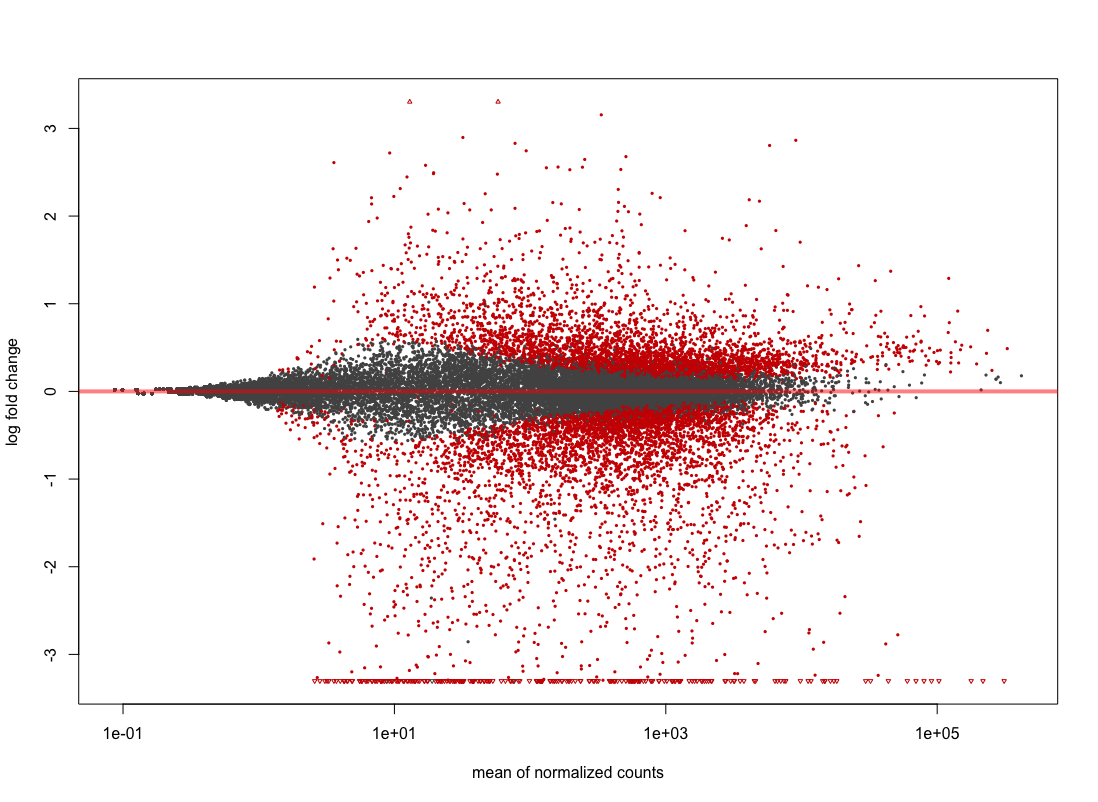
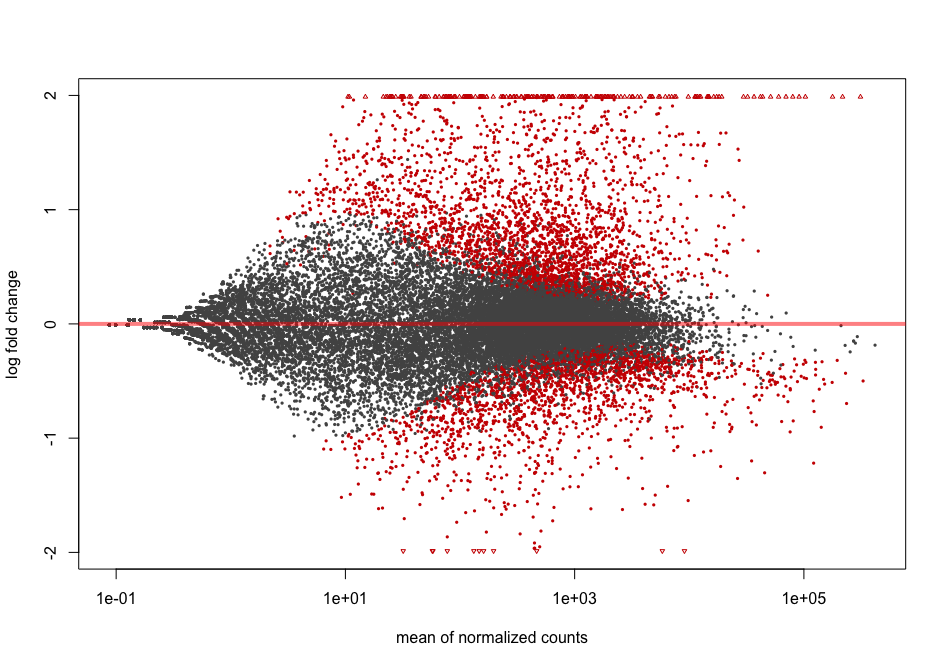
fix big error in ordering of the counts columns that had repercussions a bit everywhere

Changed region(s): [[0.0, 0.09, 0.981, 0.9895], [0.6131, 0.7496, 0.6438, 0.7796], [0.3066, 0.6897, 0.3372, 0.7196]]

diff --git a/_episodes/06-differential-analysis.md b/_episodes/06-differential-analysis.md
@@ -12,7 +12,7 @@ objectives:
 - "O2"
 - "O3"
 keypoints:
-- "KP1"
+- "Make sure you understand what you are comparing and to what."
 - "KP2"
 - "KP3"
 
@@ -41,12 +41,15 @@ a DESeqDataSet object from input tables.
 # import counts and experimental design 
 counts <- read.delim("counts.txt", header = T, stringsAsFactors = F)
 genes <- counts[,1]
-counts <- counts[,-1] # to eliminate the gene columns that won't match sample names in the design file.
-
+counts <- counts[,-1]
+row.names(counts) <- genes
 xp_design <- read.delim("experimental_design_modified.txt", header = T, stringsAsFactors = F, colClasses = rep("character",4))
 
 # change col names
-colnames(xp_design) <- c("sample", "growth", "infected", "dpi")
+colnames(xp_design) <- c("sample", "seed", "infected", "dpi")
+
+# reorder counts columns according to the experimental design file
+counts <- counts[,xp_design$sample]
 ~~~
 {:.language-r}
 
@@ -60,7 +63,7 @@ xp_design_mock_vs_infected = xp_design %>% filter(growth == "MgCl2" & dpi == "7"
 counts_filtered = counts[, colnames(counts) %in% xp_design_mock_vs_infected$sample]
 
 ## Creation of the DESeqDataSet
-dds <- DESeqDataSetFromMatrix(countData = counts_filtered, 
+dds2 <- DESeqDataSetFromMatrix(countData = counts_filtered, 
                               colData = xp_design_mock_vs_infected, 
                               design = ~ infected)
 
@@ -73,7 +76,7 @@ Please consult [the dedicated section of the DESeq2 vignette](http://bioconducto
 
 One way to see how levels are interpreted within the DESeqDataSet object is to display the factor levels. 
 ~~~
-dds$infected
+dds2$infected
 ~~~
 {:.language-r}
 
@@ -96,8 +99,8 @@ Differential gene expression analysis will consist of simply two lines of code:
 2. Then, results are extracted using the `results` function on the `dds` object and results will be extracted as a table under the name `res` (short for results). 
 
 ~~~
-dds <- DESeq(dds)
-res <- results(dds)
+dds2 <- DESeq(dds2)
+res <- results(dds2)
 
 # have a peek at the DESeqResults object 
 res
@@ -126,7 +129,7 @@ The complete explanation comes from the [DESeq2 vignette](http://bioconductor.or
 A possible preferred way is to specify the comparison of interest explicitly. We are going to name this new result object `res2` and compare it with the previous one called `res`.
 
 ~~~
-res2 <- results(dds, contrast = c("infected",                       # name of the factor
+res2 <- results(dds2, contrast = c("infected",                       # name of the factor
                                   "Pseudomonas_syringae_DC3000",    # name of the numerator level for fold change
                                   "mock"))                          # name of the denominator level    
 
@@ -224,18 +227,18 @@ res %>%
 {: .language-r}
 
 Histogram p-values
-This [blog post](http://varianceexplained.org/statistics/interpreting-pvalue-histogram/) explains in detail what you can expect from each p-value distribution profile
+This [blog post](http://varianceexplained.org/statistics/interpreting-pvalue-histogram/) explains in detail what you can expect from each p-value distribution profile.
 ~~~
 # distribution of adjusted p-values
-hist(res$padj, col = "grey")
+hist(res$padj, col="lightblue", main = "Adjusted p-value distribution")
 ~~~
 {: .language-r}
 
 <img src="../img/p_values_adjusted.png" width="800px" alt="p-values distribution (corrected for false discovery rate)">
 
 ~~~
-# distribution of adjusted p-values
-hist(res$padj, col = "grey")
+# distribution of non-adjusted p-values
+hist(res$pvalue, col="grey", main = "Non-adjusted p-value distribution")
 ~~~
 {: .language-r}
 
@@ -250,7 +253,7 @@ The MA plot originally comes from microarray studies that compared two condition
 > Points will be colored red if the adjusted p value is less than 0.1. Points which fall out of the window are plotted as open triangles pointing either up or down.
 
 ~~~
-plotMA(dds, alpha = 0.01)
+plotMA(dds2, alpha = 0.01)
 ~~~
 {: .language-r}
 
@@ -258,17 +261,22 @@ plotMA(dds, alpha = 0.01)
 
 Shrinkage of effect size (LFC estimates) is useful for visualization and ranking of genes. It is more useful visualize the MA-plot for the shrunken log2 fold changes, which remove the noise associated with log2 fold changes from low count genes without requiring arbitrary filtering thresholds. This helps to get more meaningful log2 fold changes for all genes independently of their expression level. 
 ~~~
-resLFC <- lfcShrink(dds = dds, 
+resLFC <- lfcShrink(dds = dds2, 
                   res = res,
                   type = "normal",
                   coef = 2) # corresponds to "infected_Pseudomonas_syringae_DC3000_vs_mock" comparison
 ~~~
 {: .language-r}
 
-You can see that genes with low counts are now 
+
+~~~
+plotMA(resLFC, alpha = 0.01)
+~~~
+{: .language-r}
+
+You can see that genes with low counts are now shrinked. 
+
 <img src="../img/MA_plot_shrinked.png" width="800px" alt="MA plot" >
-
-
 
 
 ## Volcano plot

diff --git a/_episodes/05-descriptive-plots.md b/_episodes/05-descriptive-plots.md
@@ -329,16 +329,14 @@ Perform a principal component analysis (PCA) in which multivariate data (i.e. mo
 
 In the context of an RNA-seq experiment, it can be used to visualize the differences (distances) between samples and how it relates to the experimental design.
 
-
-The PCA plot, log transform the data to prevent that the largest values will dominate the analyses. Center the data in order to be to analyze the relation between the objects and not the relation of the objects between the origin (0).
 ~~~
-# transform
-counts_norm_trans = t(scale(t(log10(counts_normalised + 1)),scale=FALSE,center = TRUE))
+# log transform and center the data
+counts_norm_trans = t(scale(t(log10(counts_normalised + 1)),scale = FALSE, center = TRUE))
 
 # perform the PCA analysis
 pca <- princomp(counts_norm_trans)
 
-# plot the percentage of variance explained by the 10 first principal components
+# screeplot
 screeplot(pca, ylim=c(0,0.25))
 ~~~
 {: .language-r}
@@ -346,53 +344,30 @@ screeplot(pca, ylim=c(0,0.25))
 <img src="../img/screeplot.png" width="600px" alt="Screeplot" >
 
 Let's plot the samples along the two first components that explain \~40% of the total variance.
-We are going to do it the complicated way but with full control of what we are doing!
+
+This can be done with the `plotPCA()` function of the `DESeq2` package. First, we need to stabilise the variance across genes with different means using a variance stabilising transformation or `vst()` . If interested, you can check the [corresponding detailed section in the DESeq2 vignette](https://bioconductor.org/packages/release/bioc/vignettes/DESeq2/inst/doc/DESeq2.html#data-transformations-and-visualization).
+
 ~~~
-# copy the data from the first 2 components
-T12 = as.data.frame(pca$loadings[,1:2])
-
-# add the experimental design data to the PCA data.frame
-T12c <- cbind.data.frame(T12, xp_design)
-
-# calculate the explained variance per component
-explained_var = round(x = pca$sdev^2 / sum(pca$sdev^2)*100, digits = 1)
-
-# plot the PCA score plot
-p <- ggplot(data = T12c, aes(x = Comp.1, y = Comp.2, col = seed, shape = infected, size = dpi)) + 
-              geom_point() + 
-              xlab(paste0('PC1(',explained_var[1],'%)')) + 
-              ylab(paste0('PC2(',explained_var[2],'%)')) + 
-  ggtitle('PCA log10 transformed (centered) data')
-~~~
-{: .language-r}
-
-<img src="../img/pca_all_factors.png" width="800px" alt="complete PCA" >
-
-This can also be done with the `plotPCA()` function of the `DESeq2` package. While the function call is much simpler, we do not have a clear transparent view of how the plot is constructed. 
-But first, we need to stabilise the variance across genes with different means using a variance stabilising transformation or `vst()` . If interested, you can check the [corresponding detailed section in the DESeq2 vignette](https://bioconductor.org/packages/release/bioc/vignettes/DESeq2/inst/doc/DESeq2.html#data-transformations-and-visualization).
-~~~
+# PCA using the plotPCA function
 # variance-stabilizing transformation
 vst_dds <- vst(dds)
 
-# plot the PCA
-plotPCA(vst_dds, intgroup = c("seed", "infected", "dpi"))
-~~~
-{: .language-r}
-
-You can also extract the PCA data and customize the plot using `ggplot2`.
-~~~
 # customised PCA plot
 pcaData <- plotPCA(vst_dds, intgroup = c("seed", "infected", "dpi"), returnData = TRUE)
+
 percentVar <- round(100 * attr(pcaData, "percentVar"))
+
 ggplot(pcaData, aes(PC1, PC2, color = seed, shape = infected, size = dpi)) +
   geom_point() +
   xlab(paste0("PC1: ",percentVar[1],"% variance")) +
   ylab(paste0("PC2: ",percentVar[2],"% variance")) + 
-  coord_fixed()
+  coord_fixed() +
+  ggtitle("PCA plot")
 ~~~
 {: .language-r}
 
-<img src="../img/pca_customized.png" width="800px" alt="customized PCA plot" >
+<img src="../img/pca.png" width="800px" alt="complete PCA" >
+
 
 ## Estimation of the dispersion
 For Master level!

diff --git a/_extras/guide.md b/_extras/guide.md
@@ -30,7 +30,7 @@ xp_design <- read.delim("experimental_design_modified.txt", header = T, stringsA
 # change col names
 colnames(xp_design) <- c("sample", "seed", "infected", "dpi")
 
-# reorder
+# reorder counts columns according to the experimental design file
 counts <- counts[,xp_design$sample]
 
 ## Creation of the DESeqDataSet object
@@ -85,16 +85,18 @@ cor(counts_normalised[,c(1:4)])
 pairs(x = counts_normalised[,c(1,9,17,25)],pch = 19, log = "xy")
 cor(counts_normalised[,c(1,9,17,25)])
 
-#counts_normalised_scaled = t(scale(t(counts_normalised), center = T, scale = F))
-#ggcorrplot::ggcorrplot(cor(counts_normalised_scaled))
-
-
-#counts_normalised_scaled = t(scale(t(log10(counts_normalised+1)), center = T, scale = F))
-#ggcorrplot::ggcorrplot(cor(counts_normalised_scaled))
-
 ##########
 # PCA plot
 ##########
+
+# log transform and center the data
+counts_norm_trans = t(scale(t(log10(counts_normalised + 1)),scale = FALSE, center = TRUE))
+
+# perform the PCA analysis
+pca <- princomp(counts_norm_trans)
+
+# screeplot
+screeplot(pca, ylim=c(0,0.25), main = "Screeplot")
 
 # PCA using the plotPCA function
 # variance-stabilizing transformation
@@ -102,7 +104,9 @@ vst_dds <- vst(dds)
 
 # customised PCA plot
 pcaData <- plotPCA(vst_dds, intgroup = c("seed", "infected", "dpi"), returnData = TRUE)
+
 percentVar <- round(100 * attr(pcaData, "percentVar"))
+
 ggplot(pcaData, aes(PC1, PC2, color = seed, shape = infected, size = dpi)) +
   geom_point() +
   xlab(paste0("PC1: ",percentVar[1],"% variance")) +
@@ -152,9 +156,9 @@ res %>%
 
 
 # one can also see the impact of false discovery rate method
-res_wo_fdr = results(dds2, 
-                     contrast = c("infected", "Pseudomonas_syringae_DC3000", "mock"), 
-                     pAdjustMethod = "none")  
+hist(res$pvalue, col="grey", main = "Non-adjusted p-value distribution")
+hist(res$padj, col="lightblue", main = "Adjusted p-value distribution")
+
 
 
 #########
@@ -168,6 +172,11 @@ resLFC <- lfcShrink(dds = dds2,
                   res = res,
                   type = "normal",
                   coef = 2) # corresponds to "infected_Pseudomonas_syringae_DC3000_vs_mock" comparison
+
+# MA plot shrinked
+plotMA(object = resLFC, alpha = 0.01)
+
+
 ############## 
 # Volcano plot
 #############
@@ -230,5 +239,8 @@ counts_normalised_only_diff = counts_normalised[row.names(counts_normalised) %in
 
 pheatmap(log2(counts_normalised_only_diff + 1), cluster_rows = F, cluster_cols = F)
 
+
+
+pheatmap(log2(counts_normalised_only_diff + 1), cluster_rows = F, cluster_cols = F)
 ~~~
 {: .language-r}

diff --git a/setup.md b/setup.md
@@ -26,10 +26,10 @@ title:
 
 > ## What you need to download.
 >
-> Please download the necessary data files for the lesson [from the Zenodo archive](https://zenodo.org/record/3627021).  
+> Please download the necessary data files for the lesson [from the Zenodo archive](https://doi.org/10.5281/zenodo.3666262).  
 >
 > - **Counts**: A `counts.txt` dataframe of the sample raw counts. It is a tab separated file therefore data are in tabulated separated columns.
-> - **Experimental design**: the `Experimental_design.txt` dataframe indicates the correspondence between samples and experimental conditions (e.g. control, treated).   
+> - **Experimental design**: the `experimental_design.txt` dataframe indicates the correspondence between samples and experimental conditions (e.g. control, treated).   
 > - Please read the original study description below and have a look at the file preview to understand their format.  
 > - These two files were obtained by running the `v0.1.1` version of a [RNA-Seq bioinformatic pipeline](https://github.com/KoesGroup/Snakemake_hisat-DESeq/blob/master/README.md) on the [mRNA-Seq sequencing files from Vogel et al. (2016)](https://www.ebi.ac.uk/ena/data/view/PRJEB13938).
 {: .prereq}
